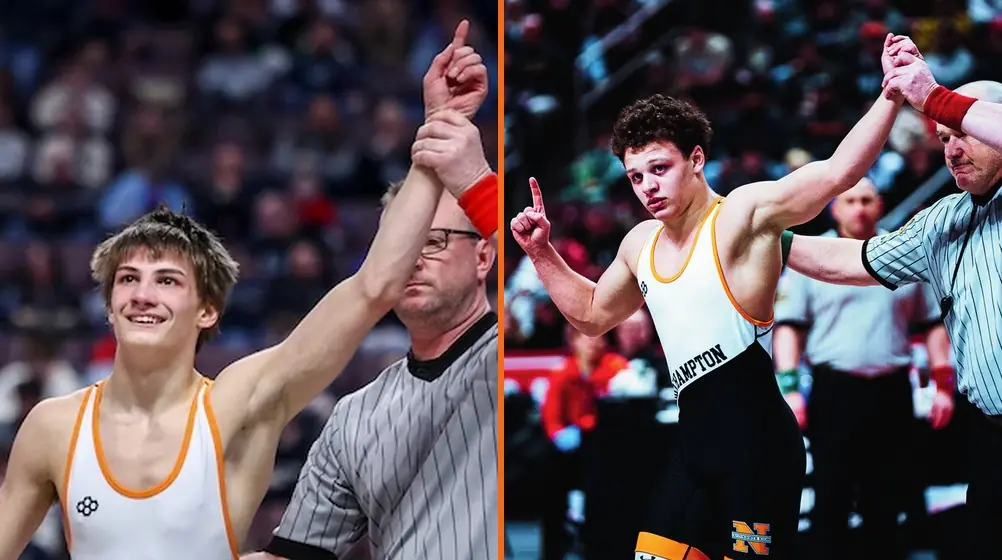
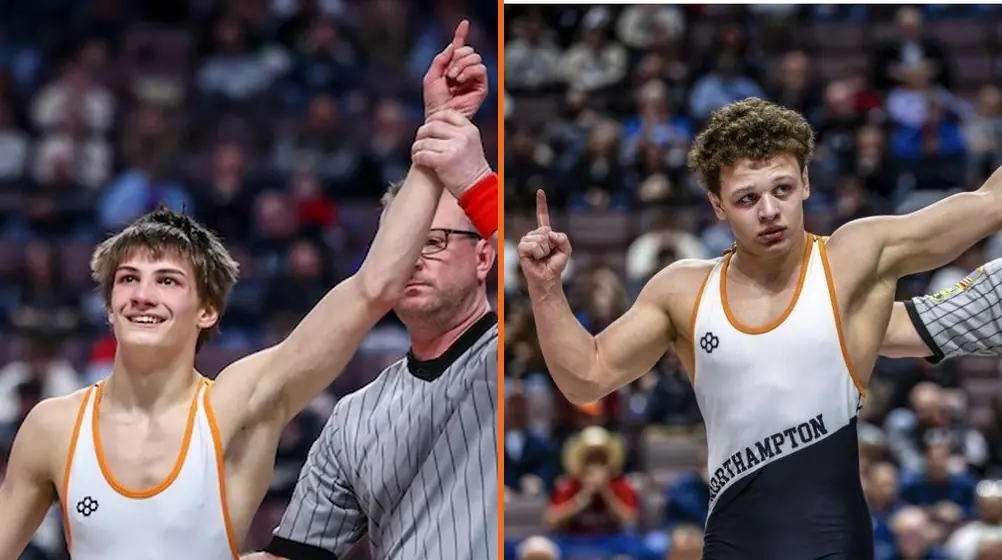
Two-champions photo: new Ballard image with matching arena lighting
Claude-Session: https://claude.ai/code/session_011unT8m44MJviwZ1PMt1Tu4

diff --git a/timeline/index.html b/timeline/index.html
@@ -34,7 +34,7 @@
 
 <header class="page-head concrete"><div class="wrap"><h1>Timeline</h1><p class="lede">Eighty-plus years of Konkrete Kids wrestling, from the first season in 1945 to today.</p></div></header>
 <nav class="tl-nav" aria-label="Decades"><div class="wrap"><a href="#d1940">1940s</a><a href="#d1950">1950s</a><a href="#d1980">1980s</a><a href="#d1990">1990s</a><a href="#d2000">2000s</a><a href="#d2010">2010s</a><a href="#d2020">2020s</a></div></nav>
-<div class="band"><div class="wrap tl"><section class="tl-decade" id="d1940" aria-labelledby="dh1940"><h2 id="dh1940" class="tl-dh">1940s</h2><ol class="tl-list" role="list"><li class="tl-item"><span class="tl-year">1945</span><div class="tl-card"><h3>Northampton Wrestling begins</h3><p>Harry Wall builds the program and coaches it for 26 seasons, through 1970–71, winning 180 dual meets.</p></div></li><li class="tl-item"><span class="tl-year">1948</span><div class="tl-card"><h3>The first champions</h3><p>Albert Billy (95) and Eugene Susko (165) win the program&#x27;s first District XI and Northeast Regional titles.</p></div></li></ol></section><section class="tl-decade" id="d1950" aria-labelledby="dh1950"><h2 id="dh1950" class="tl-dh">1950s</h2><ol class="tl-list" role="list"><li class="tl-item"><span class="tl-year">1955</span><div class="tl-card"><h3>Northampton&#x27;s first state champions</h3><p>Steve Micio (133) and Edward Keglovits (154) win PIAA titles. Micio, a state runner-up in 1954, becomes the program&#x27;s first three-time District XI champion.</p></div></li></ol></section><section class="tl-decade" id="d1980" aria-labelledby="dh1980"><h2 id="dh1980" class="tl-dh">1980s</h2><ol class="tl-list" role="list"><li class="tl-item"><span class="tl-year">1982</span><div class="tl-card"><h3>The Don Rohn era begins</h3><p>Donald Rohn takes over in 1982–83. In 18 seasons his teams go 309–59 and produce 51 District XI champions, 35 Regional champions, and 8 state champions.</p></div></li><li class="tl-item"><span class="tl-year">1984</span><div class="tl-card"><h3>The streak starts</h3><p>Sean Finkbeiner wins the state title at 145. Northampton has had at least one state medalist every year since.</p></div></li></ol></section><section class="tl-decade" id="d1990" aria-labelledby="dh1990"><h2 id="dh1990" class="tl-dh">1990s</h2><ol class="tl-list" role="list"><li class="tl-item team"><span class="tl-year">1993</span><div class="tl-card"><h3>The first team state title</h3><p>Northampton wins the PIAA Class AAA team title, and Mike Tomsic wins at 112. It&#x27;s the first of three straight team championships.</p><p class="tl-tag">PIAA team champions</p></div></li><li class="tl-item team"><span class="tl-year">1995</span><div class="tl-card"><h3>Three in a row</h3><p>A third straight team state title. Whitey Chlebove (1994) and Dennis Liberto (1995) win individual crowns along the way.</p><p class="tl-tag">PIAA team champions</p></div></li><li class="tl-item team"><span class="tl-year">1998</span><div class="tl-card"><h3>Team title number four</h3><p>Christian Luciano (171) and John Hard (275) win state titles. Luciano finishes as a four-time state placewinner.</p><p class="tl-tag">PIAA team champions</p></div></li></ol></section><section class="tl-decade" id="d2000" aria-labelledby="dh2000"><h2 id="dh2000" class="tl-dh">2000s</h2><ol class="tl-list" role="list"><li class="tl-item team"><span class="tl-year">2000</span><div class="tl-card"><h3>Team title number five</h3><p>Ryan McCallum wins at 130, and Tommy Rohn sets the single-season takedown record with 147. Terry Daubert takes over the program the next season.</p><p class="tl-tag">PIAA team champions</p></div></li><li class="tl-item team"><span class="tl-year">2003</span><div class="tl-card"><h3>Four state champions</h3><p>Jeff Ecklof, Joey Ecklof, Josh Haines, and Jon Oplinger all win state titles, and Northampton wins its sixth team championship.</p><p class="tl-tag">PIAA team champions</p></div></li><li class="tl-item team"><span class="tl-year">2004</span><div class="tl-card"><h3>A seventh team title</h3><p>Joey Ecklof, Josh Haines, and Jon Oplinger repeat as state champions. Haines finishes with 157 career wins, still the school record.</p><p class="tl-tag">PIAA team champions</p></div></li><li class="tl-item"><span class="tl-year">2005</span><div class="tl-card"><h3>Joey Ecklof&#x27;s third title</h3><p>Joey Ecklof wins at 152 for his third straight state championship.</p></div></li></ol></section><section class="tl-decade" id="d2010" aria-labelledby="dh2010"><h2 id="dh2010" class="tl-dh">2010s</h2><ol class="tl-list" role="list"><li class="tl-item"><span class="tl-year">2011</span><div class="tl-card"><h3>Seth Lisa takes over</h3><p>Seth Lisa, a three-time state placewinner for Northampton, becomes head coach in 2011–12.</p></div></li><li class="tl-item"><span class="tl-year">2019</span><div class="tl-card"><h3>Julian Chlebove, three-time champion</h3><p>Julian Chlebove wins his third state title (2016, 2017, 2019) and sets the single-season wins record with 49.</p></div></li></ol></section><section class="tl-decade" id="d2020" aria-labelledby="dh2020"><h2 id="dh2020" class="tl-dh">2020s</h2><ol class="tl-list" role="list"><li class="tl-item"><span class="tl-year">2021</span><div class="tl-card"><h3>Jagger Condomitti wins at 160</h3><p>A state runner-up in 2020, Jagger Condomitti wins the PIAA title at 160.</p></div></li><li class="tl-item"><span class="tl-year">2022</span><div class="tl-card"><h3>Joe Provini named head coach</h3><p>Joe Provini becomes the eighth head coach in program history in May 2022.</p></div></li><li class="tl-item has-photo"><span class="tl-year">2023</span><div class="tl-card"><picture><source type="image/webp" srcset="../assets/img/photos/coach-embrace-640.webp 640w, ../assets/img/photos/coach-embrace-1070.webp 1070w" sizes="(min-width: 900px) 40vw, 90vw"><img src="../assets/img/photos/coach-embrace.jpg" width="1070" height="725" alt="Coach Joe Provini lifts Carson Wagner in a hug as another coach cheers behind them" loading="lazy" decoding="async"></picture><h3>Two careers for the record book</h3><p>Dagen Condomitti becomes just the second four-time Northeast Regional champion in school history. Carson Wagner finishes as a four-time state placewinner after his last-second upset of a former state champion sends him to the state finals.</p></div></li><li class="tl-item has-photo"><span class="tl-year">2024</span><div class="tl-card"><picture><source type="image/webp" srcset="../assets/img/photos/showcase-arms-up-640.webp 640w, ../assets/img/photos/showcase-arms-up-1200.webp 1200w, ../assets/img/photos/showcase-arms-up-2000.webp 2000w" sizes="(min-width: 900px) 40vw, 90vw"><img src="../assets/img/photos/showcase-arms-up.jpg" width="1200" height="858" alt="Trey Wagner throws both arms in the air after winning the 2024 PIAA championship at 127 pounds" style="object-position:45% 12%" loading="lazy" decoding="async"></picture><h3>Trey Wagner, state champion</h3><p>Trey Wagner wins at 127, the first state title of Coach Provini&#x27;s head coaching career.</p></div></li><li class="tl-item has-photo"><span class="tl-year">2026</span><div class="tl-card"><picture><source type="image/webp" srcset="../assets/img/photos/two-champs-2026-480.webp 480w, ../assets/img/photos/two-champs-2026-1002.webp 1002w" sizes="(min-width: 900px) 40vw, 90vw"><img src="../assets/img/photos/two-champs-2026.jpg" width="1002" height="560" alt="2026 state champions side by side: Brayden Wenrich and Gabe Ballard each have a hand raised by the referee" style="object-position:50% 10%" loading="lazy" decoding="async"></picture><h3>Two champions and a trip to the podium</h3><p>Brayden Wenrich (114) and Gabe Ballard (152) win state titles, and Northampton finishes 3rd in the state with a 14–3 dual record.</p></div></li></ol></section></div></div>
+<div class="band"><div class="wrap tl"><section class="tl-decade" id="d1940" aria-labelledby="dh1940"><h2 id="dh1940" class="tl-dh">1940s</h2><ol class="tl-list" role="list"><li class="tl-item"><span class="tl-year">1945</span><div class="tl-card"><h3>Northampton Wrestling begins</h3><p>Harry Wall builds the program and coaches it for 26 seasons, through 1970–71, winning 180 dual meets.</p></div></li><li class="tl-item"><span class="tl-year">1948</span><div class="tl-card"><h3>The first champions</h3><p>Albert Billy (95) and Eugene Susko (165) win the program&#x27;s first District XI and Northeast Regional titles.</p></div></li></ol></section><section class="tl-decade" id="d1950" aria-labelledby="dh1950"><h2 id="dh1950" class="tl-dh">1950s</h2><ol class="tl-list" role="list"><li class="tl-item"><span class="tl-year">1955</span><div class="tl-card"><h3>Northampton&#x27;s first state champions</h3><p>Steve Micio (133) and Edward Keglovits (154) win PIAA titles. Micio, a state runner-up in 1954, becomes the program&#x27;s first three-time District XI champion.</p></div></li></ol></section><section class="tl-decade" id="d1980" aria-labelledby="dh1980"><h2 id="dh1980" class="tl-dh">1980s</h2><ol class="tl-list" role="list"><li class="tl-item"><span class="tl-year">1982</span><div class="tl-card"><h3>The Don Rohn era begins</h3><p>Donald Rohn takes over in 1982–83. In 18 seasons his teams go 309–59 and produce 51 District XI champions, 35 Regional champions, and 8 state champions.</p></div></li><li class="tl-item"><span class="tl-year">1984</span><div class="tl-card"><h3>The streak starts</h3><p>Sean Finkbeiner wins the state title at 145. Northampton has had at least one state medalist every year since.</p></div></li></ol></section><section class="tl-decade" id="d1990" aria-labelledby="dh1990"><h2 id="dh1990" class="tl-dh">1990s</h2><ol class="tl-list" role="list"><li class="tl-item team"><span class="tl-year">1993</span><div class="tl-card"><h3>The first team state title</h3><p>Northampton wins the PIAA Class AAA team title, and Mike Tomsic wins at 112. It&#x27;s the first of three straight team championships.</p><p class="tl-tag">PIAA team champions</p></div></li><li class="tl-item team"><span class="tl-year">1995</span><div class="tl-card"><h3>Three in a row</h3><p>A third straight team state title. Whitey Chlebove (1994) and Dennis Liberto (1995) win individual crowns along the way.</p><p class="tl-tag">PIAA team champions</p></div></li><li class="tl-item team"><span class="tl-year">1998</span><div class="tl-card"><h3>Team title number four</h3><p>Christian Luciano (171) and John Hard (275) win state titles. Luciano finishes as a four-time state placewinner.</p><p class="tl-tag">PIAA team champions</p></div></li></ol></section><section class="tl-decade" id="d2000" aria-labelledby="dh2000"><h2 id="dh2000" class="tl-dh">2000s</h2><ol class="tl-list" role="list"><li class="tl-item team"><span class="tl-year">2000</span><div class="tl-card"><h3>Team title number five</h3><p>Ryan McCallum wins at 130, and Tommy Rohn sets the single-season takedown record with 147. Terry Daubert takes over the program the next season.</p><p class="tl-tag">PIAA team champions</p></div></li><li class="tl-item team"><span class="tl-year">2003</span><div class="tl-card"><h3>Four state champions</h3><p>Jeff Ecklof, Joey Ecklof, Josh Haines, and Jon Oplinger all win state titles, and Northampton wins its sixth team championship.</p><p class="tl-tag">PIAA team champions</p></div></li><li class="tl-item team"><span class="tl-year">2004</span><div class="tl-card"><h3>A seventh team title</h3><p>Joey Ecklof, Josh Haines, and Jon Oplinger repeat as state champions. Haines finishes with 157 career wins, still the school record.</p><p class="tl-tag">PIAA team champions</p></div></li><li class="tl-item"><span class="tl-year">2005</span><div class="tl-card"><h3>Joey Ecklof&#x27;s third title</h3><p>Joey Ecklof wins at 152 for his third straight state championship.</p></div></li></ol></section><section class="tl-decade" id="d2010" aria-labelledby="dh2010"><h2 id="dh2010" class="tl-dh">2010s</h2><ol class="tl-list" role="list"><li class="tl-item"><span class="tl-year">2011</span><div class="tl-card"><h3>Seth Lisa takes over</h3><p>Seth Lisa, a three-time state placewinner for Northampton, becomes head coach in 2011–12.</p></div></li><li class="tl-item"><span class="tl-year">2019</span><div class="tl-card"><h3>Julian Chlebove, three-time champion</h3><p>Julian Chlebove wins his third state title (2016, 2017, 2019) and sets the single-season wins record with 49.</p></div></li></ol></section><section class="tl-decade" id="d2020" aria-labelledby="dh2020"><h2 id="dh2020" class="tl-dh">2020s</h2><ol class="tl-list" role="list"><li class="tl-item"><span class="tl-year">2021</span><div class="tl-card"><h3>Jagger Condomitti wins at 160</h3><p>A state runner-up in 2020, Jagger Condomitti wins the PIAA title at 160.</p></div></li><li class="tl-item"><span class="tl-year">2022</span><div class="tl-card"><h3>Joe Provini named head coach</h3><p>Joe Provini becomes the eighth head coach in program history in May 2022.</p></div></li><li class="tl-item has-photo"><span class="tl-year">2023</span><div class="tl-card"><picture><source type="image/webp" srcset="../assets/img/photos/coach-embrace-640.webp 640w, ../assets/img/photos/coach-embrace-1070.webp 1070w" sizes="(min-width: 900px) 40vw, 90vw"><img src="../assets/img/photos/coach-embrace.jpg" width="1070" height="725" alt="Coach Joe Provini lifts Carson Wagner in a hug as another coach cheers behind them" loading="lazy" decoding="async"></picture><h3>Two careers for the record book</h3><p>Dagen Condomitti becomes just the second four-time Northeast Regional champion in school history. Carson Wagner finishes as a four-time state placewinner after his last-second upset of a former state champion sends him to the state finals.</p></div></li><li class="tl-item has-photo"><span class="tl-year">2024</span><div class="tl-card"><picture><source type="image/webp" srcset="../assets/img/photos/showcase-arms-up-640.webp 640w, ../assets/img/photos/showcase-arms-up-1200.webp 1200w, ../assets/img/photos/showcase-arms-up-2000.webp 2000w" sizes="(min-width: 900px) 40vw, 90vw"><img src="../assets/img/photos/showcase-arms-up.jpg" width="1200" height="858" alt="Trey Wagner throws both arms in the air after winning the 2024 PIAA championship at 127 pounds" style="object-position:45% 12%" loading="lazy" decoding="async"></picture><h3>Trey Wagner, state champion</h3><p>Trey Wagner wins at 127, the first state title of Coach Provini&#x27;s head coaching career.</p></div></li><li class="tl-item has-photo"><span class="tl-year">2026</span><div class="tl-card"><picture><source type="image/webp" srcset="../assets/img/photos/two-champs-2026-480.webp 480w, ../assets/img/photos/two-champs-2026-1002.webp 1002w" sizes="(min-width: 900px) 40vw, 90vw"><img src="../assets/img/photos/two-champs-2026.jpg" width="1002" height="560" alt="2026 state champions side by side: Brayden Wenrich has his hand raised by the referee, and Gabe Ballard points a finger skyward" style="object-position:50% 10%" loading="lazy" decoding="async"></picture><h3>Two champions and a trip to the podium</h3><p>Brayden Wenrich (114) and Gabe Ballard (152) win state titles, and Northampton finishes 3rd in the state with a 14–3 dual record.</p></div></li></ol></section></div></div>
 <section class="band concrete"><div class="wrap prose"><h2>Help us fill in the history</h2><p>Have photos, newspaper clippings, or stories from earlier decades? Email <a href="mailto:northamptonareawrestlingclub@gmail.com">northamptonareawrestlingclub@gmail.com</a>. We’ll credit everything we use.</p></div></section>
 
 </main>

diff --git a/news/index.html b/news/index.html
@@ -34,7 +34,7 @@
 
 <header class="page-head concrete"><div class="wrap"><h1>News</h1><p class="lede">The latest from the varsity, junior high, and youth programs.</p></div></header>
 <section class="band">
-  <div class="wrap"><h2 class="visually-hidden">All news</h2><div class="news-grid all"><article class="news-card"><a href="../news/new-website/"><picture><source type="image/webp" srcset="../assets/img/photos/hero-circle-640.webp 640w, ../assets/img/photos/hero-circle-1200.webp 1200w, ../assets/img/photos/hero-circle-1800.webp 1800w, ../assets/img/photos/hero-circle-2000.webp 2000w" sizes="(min-width: 900px) 33vw, 100vw"><img src="../assets/img/photos/hero-circle.jpg" width="1200" height="857" alt="Northampton wrestlers lie in a circle on the orange home mat with their fists together before a match" style="object-position:50% 100%" loading="lazy" decoding="async"></picture><div class="nc-body"><time datetime="2026-10-06">October 6, 2026</time><h3>Northampton Wrestling launches its new home online</h3><p>Results, rosters, the Hall of Champions, and every state champion since 1955, all in one place.</p></div></a></article><article class="news-card"><a href="../news/2026-banquet/"><picture><source type="image/webp" srcset="../assets/img/photos/senior-night-640.webp 640w, ../assets/img/photos/senior-night-1200.webp 1200w, ../assets/img/photos/senior-night-1800.webp 1800w" sizes="(min-width: 900px) 33vw, 100vw"><img src="../assets/img/photos/senior-night.jpg" width="1200" height="900" alt="Northampton seniors and their families on the orange mat for Senior Night" loading="lazy" decoding="async"></picture><div class="nc-body"><time datetime="2026-04-02">April 2, 2026</time><h3>Banquet honors the 2025–26 Konkrete Kids</h3><p>Wenrich and Ballard named Outstanding Wrestlers; five seniors receive Charlie Lerch Memorial Scholarships.</p></div></a></article><article class="news-card"><a href="../news/two-state-champions/"><picture><source type="image/webp" srcset="../assets/img/photos/two-champs-2026-480.webp 480w, ../assets/img/photos/two-champs-2026-1002.webp 1002w" sizes="(min-width: 900px) 33vw, 100vw"><img src="../assets/img/photos/two-champs-2026.jpg" width="1002" height="560" alt="2026 state champions side by side: Brayden Wenrich and Gabe Ballard each have a hand raised by the referee" style="object-position:50% 10%" loading="lazy" decoding="async"></picture><div class="nc-body"><time datetime="2026-03-07">March 7, 2026</time><h3>Wenrich and Ballard win state titles as Northampton finishes 3rd in the state</h3><p>Two PIAA champions in the same year for the first time since 2004.</p></div></a></article></div></div>
+  <div class="wrap"><h2 class="visually-hidden">All news</h2><div class="news-grid all"><article class="news-card"><a href="../news/new-website/"><picture><source type="image/webp" srcset="../assets/img/photos/hero-circle-640.webp 640w, ../assets/img/photos/hero-circle-1200.webp 1200w, ../assets/img/photos/hero-circle-1800.webp 1800w, ../assets/img/photos/hero-circle-2000.webp 2000w" sizes="(min-width: 900px) 33vw, 100vw"><img src="../assets/img/photos/hero-circle.jpg" width="1200" height="857" alt="Northampton wrestlers lie in a circle on the orange home mat with their fists together before a match" style="object-position:50% 100%" loading="lazy" decoding="async"></picture><div class="nc-body"><time datetime="2026-10-06">October 6, 2026</time><h3>Northampton Wrestling launches its new home online</h3><p>Results, rosters, the Hall of Champions, and every state champion since 1955, all in one place.</p></div></a></article><article class="news-card"><a href="../news/2026-banquet/"><picture><source type="image/webp" srcset="../assets/img/photos/senior-night-640.webp 640w, ../assets/img/photos/senior-night-1200.webp 1200w, ../assets/img/photos/senior-night-1800.webp 1800w" sizes="(min-width: 900px) 33vw, 100vw"><img src="../assets/img/photos/senior-night.jpg" width="1200" height="900" alt="Northampton seniors and their families on the orange mat for Senior Night" loading="lazy" decoding="async"></picture><div class="nc-body"><time datetime="2026-04-02">April 2, 2026</time><h3>Banquet honors the 2025–26 Konkrete Kids</h3><p>Wenrich and Ballard named Outstanding Wrestlers; five seniors receive Charlie Lerch Memorial Scholarships.</p></div></a></article><article class="news-card"><a href="../news/two-state-champions/"><picture><source type="image/webp" srcset="../assets/img/photos/two-champs-2026-480.webp 480w, ../assets/img/photos/two-champs-2026-1002.webp 1002w" sizes="(min-width: 900px) 33vw, 100vw"><img src="../assets/img/photos/two-champs-2026.jpg" width="1002" height="560" alt="2026 state champions side by side: Brayden Wenrich has his hand raised by the referee, and Gabe Ballard points a finger skyward" style="object-position:50% 10%" loading="lazy" decoding="async"></picture><div class="nc-body"><time datetime="2026-03-07">March 7, 2026</time><h3>Wenrich and Ballard win state titles as Northampton finishes 3rd in the state</h3><p>Two PIAA champions in the same year for the first time since 2004.</p></div></a></article></div></div>
 </section>
 
 </main>

diff --git a/index.html b/index.html
@@ -53,7 +53,7 @@
 <section class="band" aria-labelledby="news-title">
   <div class="wrap">
     <div class="sec-row"><h2 id="news-title">Latest from Northampton</h2><a class="text-link" href="news/">All news</a></div>
-    <div class="news-grid"><article class="news-card big"><a href="news/new-website/"><picture><source type="image/webp" srcset="assets/img/photos/hero-circle-640.webp 640w, assets/img/photos/hero-circle-1200.webp 1200w, assets/img/photos/hero-circle-1800.webp 1800w, assets/img/photos/hero-circle-2000.webp 2000w" sizes="(min-width: 900px) 33vw, 100vw"><img src="assets/img/photos/hero-circle.jpg" width="1200" height="857" alt="Northampton wrestlers lie in a circle on the orange home mat with their fists together before a match" style="object-position:50% 100%" loading="lazy" decoding="async"></picture><div class="nc-body"><time datetime="2026-10-06">October 6, 2026</time><h3>Northampton Wrestling launches its new home online</h3><p>Results, rosters, the Hall of Champions, and every state champion since 1955, all in one place.</p></div></a></article><article class="news-card"><a href="news/2026-banquet/"><picture><source type="image/webp" srcset="assets/img/photos/senior-night-640.webp 640w, assets/img/photos/senior-night-1200.webp 1200w, assets/img/photos/senior-night-1800.webp 1800w" sizes="(min-width: 900px) 33vw, 100vw"><img src="assets/img/photos/senior-night.jpg" width="1200" height="900" alt="Northampton seniors and their families on the orange mat for Senior Night" loading="lazy" decoding="async"></picture><div class="nc-body"><time datetime="2026-04-02">April 2, 2026</time><h3>Banquet honors the 2025–26 Konkrete Kids</h3><p>Wenrich and Ballard named Outstanding Wrestlers; five seniors receive Charlie Lerch Memorial Scholarships.</p></div></a></article><article class="news-card"><a href="news/two-state-champions/"><picture><source type="image/webp" srcset="assets/img/photos/two-champs-2026-480.webp 480w, assets/img/photos/two-champs-2026-1002.webp 1002w" sizes="(min-width: 900px) 33vw, 100vw"><img src="assets/img/photos/two-champs-2026.jpg" width="1002" height="560" alt="2026 state champions side by side: Brayden Wenrich and Gabe Ballard each have a hand raised by the referee" style="object-position:50% 10%" loading="lazy" decoding="async"></picture><div class="nc-body"><time datetime="2026-03-07">March 7, 2026</time><h3>Wenrich and Ballard win state titles as Northampton finishes 3rd in the state</h3><p>Two PIAA champions in the same year for the first time since 2004.</p></div></a></article></div>
+    <div class="news-grid"><article class="news-card big"><a href="news/new-website/"><picture><source type="image/webp" srcset="assets/img/photos/hero-circle-640.webp 640w, assets/img/photos/hero-circle-1200.webp 1200w, assets/img/photos/hero-circle-1800.webp 1800w, assets/img/photos/hero-circle-2000.webp 2000w" sizes="(min-width: 900px) 33vw, 100vw"><img src="assets/img/photos/hero-circle.jpg" width="1200" height="857" alt="Northampton wrestlers lie in a circle on the orange home mat with their fists together before a match" style="object-position:50% 100%" loading="lazy" decoding="async"></picture><div class="nc-body"><time datetime="2026-10-06">October 6, 2026</time><h3>Northampton Wrestling launches its new home online</h3><p>Results, rosters, the Hall of Champions, and every state champion since 1955, all in one place.</p></div></a></article><article class="news-card"><a href="news/2026-banquet/"><picture><source type="image/webp" srcset="assets/img/photos/senior-night-640.webp 640w, assets/img/photos/senior-night-1200.webp 1200w, assets/img/photos/senior-night-1800.webp 1800w" sizes="(min-width: 900px) 33vw, 100vw"><img src="assets/img/photos/senior-night.jpg" width="1200" height="900" alt="Northampton seniors and their families on the orange mat for Senior Night" loading="lazy" decoding="async"></picture><div class="nc-body"><time datetime="2026-04-02">April 2, 2026</time><h3>Banquet honors the 2025–26 Konkrete Kids</h3><p>Wenrich and Ballard named Outstanding Wrestlers; five seniors receive Charlie Lerch Memorial Scholarships.</p></div></a></article><article class="news-card"><a href="news/two-state-champions/"><picture><source type="image/webp" srcset="assets/img/photos/two-champs-2026-480.webp 480w, assets/img/photos/two-champs-2026-1002.webp 1002w" sizes="(min-width: 900px) 33vw, 100vw"><img src="assets/img/photos/two-champs-2026.jpg" width="1002" height="560" alt="2026 state champions side by side: Brayden Wenrich has his hand raised by the referee, and Gabe Ballard points a finger skyward" style="object-position:50% 10%" loading="lazy" decoding="async"></picture><div class="nc-body"><time datetime="2026-03-07">March 7, 2026</time><h3>Wenrich and Ballard win state titles as Northampton finishes 3rd in the state</h3><p>Two PIAA champions in the same year for the first time since 2004.</p></div></a></article></div>
   </div>
 </section>
 

diff --git a/news/2026-banquet/index.html b/news/2026-banquet/index.html
@@ -37,7 +37,7 @@
     <div class="wrap"><p class="kicker"><a href="../../news/">News</a> · <time datetime="2026-04-02">April 2, 2026</time></p><h1 class="article-title">Banquet honors the 2025–26 Konkrete Kids</h1></div></header>
   <div class="band"><div class="wrap prose article-body"><p>The Northampton Area Wrestling Club honored the 2025–26 team at its annual awards banquet on April 2, 2026.</p><p>State champions Brayden Wenrich and Gabe Ballard shared the Outstanding Wrestler award. Ben Schoeneberger was named Rookie of the Year, Zach Hartzell received the Future Star award, and Carter Chlebove was named Most Improved and Most Courageous.</p><p>Chase Grabfelder, Daniel Herritt, Brandon McEntire, Matthew Sommer, and Trey Wagner received Charlie Lerch Memorial Scholarships. Wagner, who finished his career with 140 wins, earned the 40 Point Club&#x27;s fourth-year scholarship.</p></div></div>
 </article>
-<section class="band concrete"><div class="wrap"><h2>More news</h2><div class="news-grid two"><article class="news-card"><a href="../../news/new-website/"><picture><source type="image/webp" srcset="../../assets/img/photos/hero-circle-640.webp 640w, ../../assets/img/photos/hero-circle-1200.webp 1200w, ../../assets/img/photos/hero-circle-1800.webp 1800w, ../../assets/img/photos/hero-circle-2000.webp 2000w" sizes="(min-width: 900px) 33vw, 100vw"><img src="../../assets/img/photos/hero-circle.jpg" width="1200" height="857" alt="Northampton wrestlers lie in a circle on the orange home mat with their fists together before a match" style="object-position:50% 100%" loading="lazy" decoding="async"></picture><div class="nc-body"><time datetime="2026-10-06">October 6, 2026</time><h3>Northampton Wrestling launches its new home online</h3><p>Results, rosters, the Hall of Champions, and every state champion since 1955, all in one place.</p></div></a></article><article class="news-card"><a href="../../news/two-state-champions/"><picture><source type="image/webp" srcset="../../assets/img/photos/two-champs-2026-480.webp 480w, ../../assets/img/photos/two-champs-2026-1002.webp 1002w" sizes="(min-width: 900px) 33vw, 100vw"><img src="../../assets/img/photos/two-champs-2026.jpg" width="1002" height="560" alt="2026 state champions side by side: Brayden Wenrich and Gabe Ballard each have a hand raised by the referee" style="object-position:50% 10%" loading="lazy" decoding="async"></picture><div class="nc-body"><time datetime="2026-03-07">March 7, 2026</time><h3>Wenrich and Ballard win state titles as Northampton finishes 3rd in the state</h3><p>Two PIAA champions in the same year for the first time since 2004.</p></div></a></article></div></div></section>
+<section class="band concrete"><div class="wrap"><h2>More news</h2><div class="news-grid two"><article class="news-card"><a href="../../news/new-website/"><picture><source type="image/webp" srcset="../../assets/img/photos/hero-circle-640.webp 640w, ../../assets/img/photos/hero-circle-1200.webp 1200w, ../../assets/img/photos/hero-circle-1800.webp 1800w, ../../assets/img/photos/hero-circle-2000.webp 2000w" sizes="(min-width: 900px) 33vw, 100vw"><img src="../../assets/img/photos/hero-circle.jpg" width="1200" height="857" alt="Northampton wrestlers lie in a circle on the orange home mat with their fists together before a match" style="object-position:50% 100%" loading="lazy" decoding="async"></picture><div class="nc-body"><time datetime="2026-10-06">October 6, 2026</time><h3>Northampton Wrestling launches its new home online</h3><p>Results, rosters, the Hall of Champions, and every state champion since 1955, all in one place.</p></div></a></article><article class="news-card"><a href="../../news/two-state-champions/"><picture><source type="image/webp" srcset="../../assets/img/photos/two-champs-2026-480.webp 480w, ../../assets/img/photos/two-champs-2026-1002.webp 1002w" sizes="(min-width: 900px) 33vw, 100vw"><img src="../../assets/img/photos/two-champs-2026.jpg" width="1002" height="560" alt="2026 state champions side by side: Brayden Wenrich has his hand raised by the referee, and Gabe Ballard points a finger skyward" style="object-position:50% 10%" loading="lazy" decoding="async"></picture><div class="nc-body"><time datetime="2026-03-07">March 7, 2026</time><h3>Wenrich and Ballard win state titles as Northampton finishes 3rd in the state</h3><p>Two PIAA champions in the same year for the first time since 2004.</p></div></a></article></div></div></section>
 
 </main>
 <footer class="site-foot">

diff --git a/news/new-website/index.html b/news/new-website/index.html
@@ -37,7 +37,7 @@
     <div class="wrap"><p class="kicker"><a href="../../news/">News</a> · <time datetime="2026-10-06">October 6, 2026</time></p><h1 class="article-title">Northampton Wrestling launches its new home online</h1></div></header>
   <div class="band"><div class="wrap prose article-body"><p>Northampton Wrestling has a new website. It brings the whole program, from the youth room to the varsity lineup, into one place.</p><p>The Hall of Champions lists every District XI champion since 1948, every Northeast Regional champion, all 27 PIAA state champions, and every state medalist, along with the program&#x27;s seven PIAA team titles and the 100-Win Club. Search any name to see that wrestler&#x27;s titles, medals, and records.</p><p>During the season, the site will carry the schedule, results after every match, and news from the varsity, junior high, and youth programs.</p></div></div>
 </article>
-<section class="band concrete"><div class="wrap"><h2>More news</h2><div class="news-grid two"><article class="news-card"><a href="../../news/2026-banquet/"><picture><source type="image/webp" srcset="../../assets/img/photos/senior-night-640.webp 640w, ../../assets/img/photos/senior-night-1200.webp 1200w, ../../assets/img/photos/senior-night-1800.webp 1800w" sizes="(min-width: 900px) 33vw, 100vw"><img src="../../assets/img/photos/senior-night.jpg" width="1200" height="900" alt="Northampton seniors and their families on the orange mat for Senior Night" loading="lazy" decoding="async"></picture><div class="nc-body"><time datetime="2026-04-02">April 2, 2026</time><h3>Banquet honors the 2025–26 Konkrete Kids</h3><p>Wenrich and Ballard named Outstanding Wrestlers; five seniors receive Charlie Lerch Memorial Scholarships.</p></div></a></article><article class="news-card"><a href="../../news/two-state-champions/"><picture><source type="image/webp" srcset="../../assets/img/photos/two-champs-2026-480.webp 480w, ../../assets/img/photos/two-champs-2026-1002.webp 1002w" sizes="(min-width: 900px) 33vw, 100vw"><img src="../../assets/img/photos/two-champs-2026.jpg" width="1002" height="560" alt="2026 state champions side by side: Brayden Wenrich and Gabe Ballard each have a hand raised by the referee" style="object-position:50% 10%" loading="lazy" decoding="async"></picture><div class="nc-body"><time datetime="2026-03-07">March 7, 2026</time><h3>Wenrich and Ballard win state titles as Northampton finishes 3rd in the state</h3><p>Two PIAA champions in the same year for the first time since 2004.</p></div></a></article></div></div></section>
+<section class="band concrete"><div class="wrap"><h2>More news</h2><div class="news-grid two"><article class="news-card"><a href="../../news/2026-banquet/"><picture><source type="image/webp" srcset="../../assets/img/photos/senior-night-640.webp 640w, ../../assets/img/photos/senior-night-1200.webp 1200w, ../../assets/img/photos/senior-night-1800.webp 1800w" sizes="(min-width: 900px) 33vw, 100vw"><img src="../../assets/img/photos/senior-night.jpg" width="1200" height="900" alt="Northampton seniors and their families on the orange mat for Senior Night" loading="lazy" decoding="async"></picture><div class="nc-body"><time datetime="2026-04-02">April 2, 2026</time><h3>Banquet honors the 2025–26 Konkrete Kids</h3><p>Wenrich and Ballard named Outstanding Wrestlers; five seniors receive Charlie Lerch Memorial Scholarships.</p></div></a></article><article class="news-card"><a href="../../news/two-state-champions/"><picture><source type="image/webp" srcset="../../assets/img/photos/two-champs-2026-480.webp 480w, ../../assets/img/photos/two-champs-2026-1002.webp 1002w" sizes="(min-width: 900px) 33vw, 100vw"><img src="../../assets/img/photos/two-champs-2026.jpg" width="1002" height="560" alt="2026 state champions side by side: Brayden Wenrich has his hand raised by the referee, and Gabe Ballard points a finger skyward" style="object-position:50% 10%" loading="lazy" decoding="async"></picture><div class="nc-body"><time datetime="2026-03-07">March 7, 2026</time><h3>Wenrich and Ballard win state titles as Northampton finishes 3rd in the state</h3><p>Two PIAA champions in the same year for the first time since 2004.</p></div></a></article></div></div></section>
 
 </main>
 <footer class="site-foot">
